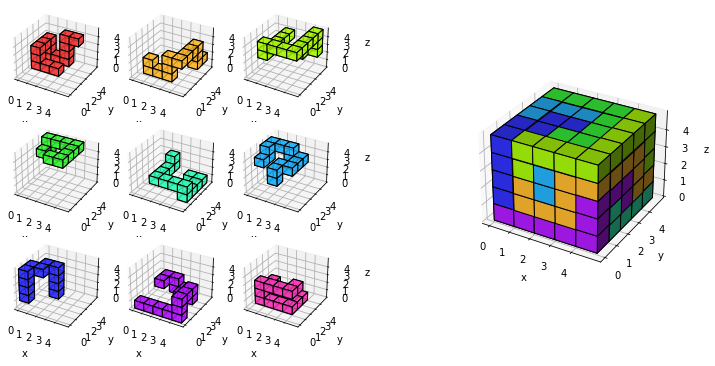
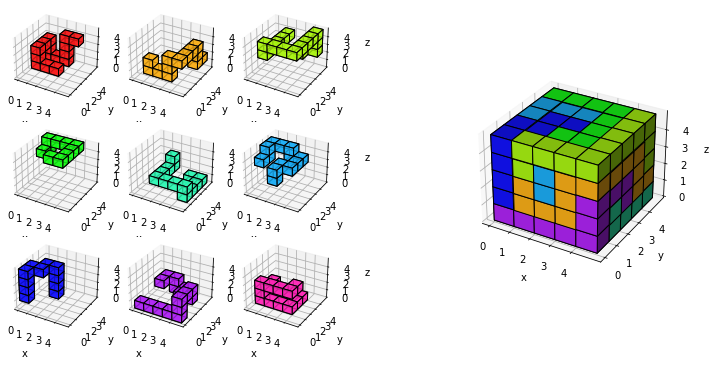
Ensure white background for images

diff --git a/cubeSolver.py b/cubeSolver.py
@@ -1,7 +1,9 @@
 """A module to solve 3D cube arrangement puzzles."""
 import numpy as np
 from matplotlib import pyplot as plt
-
+plt.rcParams['figure.facecolor'] = 'w'
+plt.rcParams['axes.facecolor'] = 'w'
+plt.rcParams['savefig.facecolor'] = 'w'
 
 class Piece(object):
     """This class defines a piece of the cube."""
